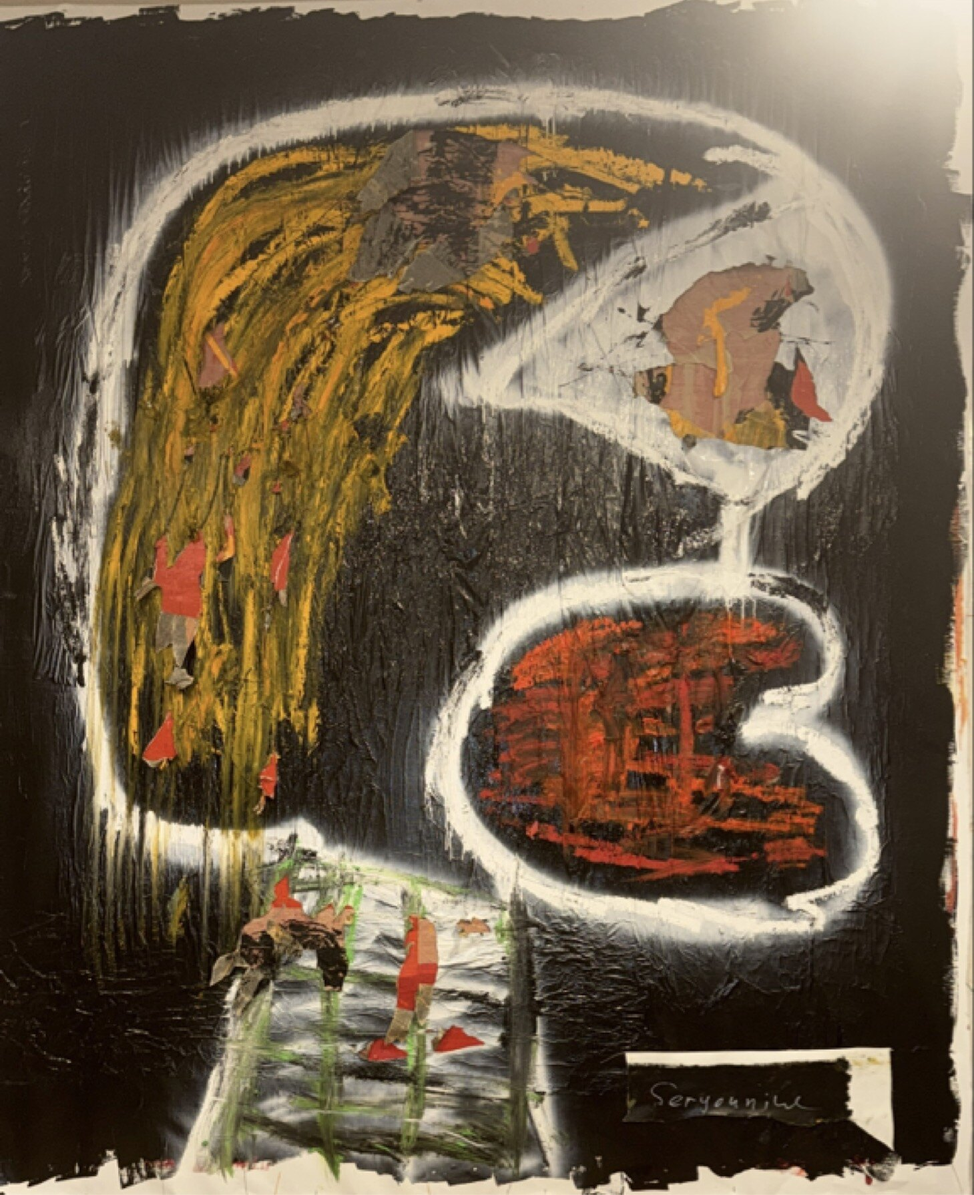
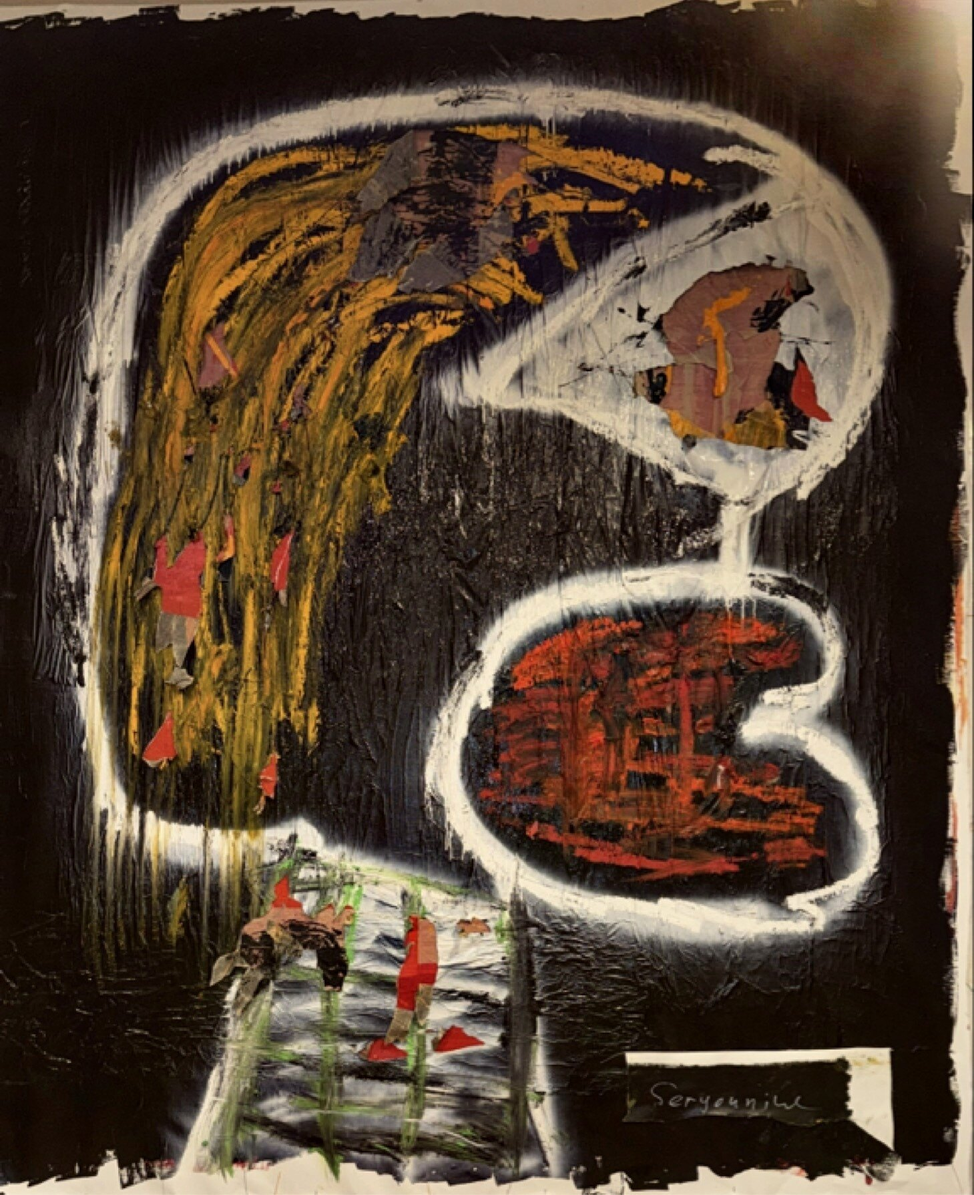
Align typography with Mind Mechanics catalogue; remove glare from MM58 photo
Claude-Session: https://claude.ai/code/session_01FYrPgsF63UgjyRSbfZ3Y21

diff --git a/style.css b/style.css
@@ -6,7 +6,8 @@
   --mid:#5E5B55;
   --dim:#8C8880;
   --rule:#D9D7D1;
-  --ochre:#9C7A32;
+  --ochre:#1C1B18;
+  --serif:'Newsreader','Palatino Linotype','Palatino','Book Antiqua',Georgia,serif;
   --pad:clamp(20px,5vw,72px);
 }
 *{box-sizing:border-box;margin:0;padding:0}
@@ -24,7 +25,7 @@ a{color:inherit;text-decoration:none}
   display:flex;align-items:baseline;justify-content:space-between;gap:24px;
   padding:17px var(--pad);border-bottom:1px solid var(--rule);
 }
-.nav__name{font-weight:700;font-size:clamp(12px,1.4vw,14px);letter-spacing:.24em;text-transform:uppercase}
+.nav__name{font-weight:500;font-size:10.5px;letter-spacing:.24em;text-transform:uppercase}
 .nav__links{display:flex;gap:clamp(14px,2.4vw,30px)}
 .nav__link{
   font-size:10.5px;letter-spacing:.2em;text-transform:uppercase;
@@ -41,16 +42,16 @@ a{color:inherit;text-decoration:none}
   border-bottom:1px solid var(--rule);
 }
 .mast__series{
-  font-size:clamp(30px,6.4vw,62px);font-weight:700;
-  letter-spacing:-.032em;line-height:1;text-transform:uppercase;
+  font-family:var(--serif);font-style:italic;font-weight:400;
+  font-size:clamp(38px,6vw,66px);letter-spacing:-.01em;line-height:1.05;
 }
 .mast__series::after{
-  content:"";display:block;width:104px;height:1.5px;
-  background:var(--ochre);margin-top:16px;
+  content:"";display:block;width:104px;height:1px;
+  background:var(--ink);margin-top:18px;
 }
 .mast__years{
-  display:block;margin-top:14px;font-size:11px;font-weight:500;
-  letter-spacing:.26em;color:var(--ochre);
+  display:block;margin-top:14px;font-family:'Archivo',system-ui,sans-serif;font-style:normal;
+  font-size:10.5px;font-weight:400;letter-spacing:.24em;color:var(--dim);
 }
 .mast__facts{
   margin-top:24px;display:flex;flex-wrap:wrap;gap:6px 22px;
@@ -58,10 +59,10 @@ a{color:inherit;text-decoration:none}
 }
 .counter{text-align:right;line-height:1}
 .counter__n{
-  font-size:clamp(40px,7.5vw,80px);font-weight:700;letter-spacing:-.05em;
-  font-variant-numeric:tabular-nums;display:block;
+  font-family:var(--serif);font-weight:400;font-size:clamp(26px,3vw,34px);
+  letter-spacing:0;font-variant-numeric:oldstyle-nums;display:inline;
 }
-.counter__of{font-size:clamp(12px,1.6vw,15px);color:var(--dim);font-variant-numeric:tabular-nums}
+.counter__of{font-family:var(--serif);font-size:clamp(15px,1.6vw,18px);color:var(--dim);margin-left:6px}
 .counter__label{
   display:block;margin-top:12px;max-width:17ch;margin-left:auto;
   font-size:10px;letter-spacing:.15em;text-transform:uppercase;
@@ -83,12 +84,11 @@ a{color:inherit;text-decoration:none}
 .work.reveal.is-in{opacity:1;transform:none}
 .work__meta{display:flex;flex-direction:column;position:sticky;top:88px;padding-top:4px}
 .work__num{
-  font-size:clamp(26px,3.6vw,40px);font-weight:700;letter-spacing:-.04em;
-  line-height:.9;font-variant-numeric:tabular-nums;
-  padding-bottom:14px;margin-bottom:14px;border-bottom:1px solid var(--rule);
+  font-size:10px;letter-spacing:.2em;text-transform:uppercase;color:var(--dim);
+  padding-bottom:12px;margin-bottom:14px;border-bottom:1px solid var(--rule);
 }
-.work__title{font-size:12.5px;font-weight:500;margin-bottom:7px}
-.work__dim{font-size:12px;color:var(--mid);line-height:1.6}
+.work__title{font-family:var(--serif);font-style:italic;font-size:17px;line-height:1.3;margin-bottom:8px}
+.work__dim{font-family:var(--serif);font-size:14px;color:var(--mid);line-height:1.5}
 .work__note{
   margin-top:14px;padding-top:12px;border-top:1px solid var(--rule);
   font-size:10px;letter-spacing:.15em;text-transform:uppercase;color:var(--dim);line-height:1.8;
@@ -107,14 +107,14 @@ a{color:inherit;text-decoration:none}
 
 /* ---------- prose pages ---------- */
 .sheet{max-width:62ch;padding:clamp(44px,8vw,104px) var(--pad) clamp(64px,10vw,140px)}
-.eyebrow{font-size:10.5px;letter-spacing:.24em;text-transform:uppercase;color:var(--ochre);margin-bottom:20px}
+.eyebrow{font-size:10px;letter-spacing:.24em;text-transform:uppercase;color:var(--dim);margin-bottom:20px}
 .sheet h1{
-  font-size:clamp(26px,4vw,40px);font-weight:700;
-  letter-spacing:-.03em;line-height:1.06;margin-bottom:18px;
+  font-family:var(--serif);font-style:italic;font-weight:400;
+  font-size:clamp(32px,4.4vw,46px);letter-spacing:-.01em;line-height:1.1;margin-bottom:18px;
 }
 .sheet h1::after{
-  content:"";display:block;width:104px;height:1.5px;
-  background:var(--ochre);margin-top:16px;margin-bottom:32px;
+  content:"";display:block;width:104px;height:1px;
+  background:var(--ink);margin-top:18px;margin-bottom:32px;
 }
 .portrait{margin:0 0 clamp(34px,5vw,52px)}
 .portrait__ph{
@@ -128,7 +128,7 @@ a{color:inherit;text-decoration:none}
   text-transform:uppercase;color:var(--dim);
 }
 .prose p{
-  font-family:'Newsreader',Georgia,serif;font-weight:400;
+  font-family:var(--serif);font-weight:400;
   font-size:clamp(17px,1.8vw,19.5px);line-height:1.68;
   color:#33312C;margin-bottom:1.15em;
 }
@@ -136,7 +136,7 @@ a{color:inherit;text-decoration:none}
   font-size:clamp(20px,2.5vw,26px);line-height:1.42;color:var(--ink);
   letter-spacing:-.008em;margin-bottom:1.35em;
 }
-.prose strong{font-weight:400;color:var(--ink)}
+.prose strong{font-weight:400;font-style:italic;color:var(--ink)}
 .divider{border:0;border-top:1px solid var(--rule);margin:clamp(40px,6vw,68px) 0 clamp(26px,4vw,40px)}
 .dl{
   display:inline-flex;gap:10px;align-items:center;font-size:10.5px;
@@ -149,7 +149,7 @@ a{color:inherit;text-decoration:none}
 /* ---------- contact ---------- */
 .contact__grid{display:grid;gap:clamp(24px,3.6vw,40px);margin-top:10px}
 .cblock__k{font-size:10.5px;letter-spacing:.2em;text-transform:uppercase;color:var(--dim);margin-bottom:9px}
-.cblock__v{font-size:clamp(17px,2.1vw,21px);font-weight:500;letter-spacing:-.01em}
+.cblock__v{font-family:var(--serif);font-size:clamp(18px,2.1vw,22px);font-weight:400}
 .cblock__v a{border-bottom:1px solid var(--rule);padding-bottom:3px}
 .cblock__v a:hover{border-bottom-color:var(--ink)}
 .cblock__note{font-size:12.5px;color:var(--mid);margin-top:7px}
@@ -169,7 +169,6 @@ a{color:inherit;text-decoration:none}
   .counter__label{margin-left:0}
   .work{grid-template-columns:1fr}
   .work__meta{position:static}
-  .work__num{font-size:30px}
 }
 @media (prefers-reduced-motion:reduce){
   *{transition:none!important}

diff --git a/index.html b/index.html
@@ -11,7 +11,7 @@
 <meta property="og:type" content="website">
 <link rel="preconnect" href="https://fonts.googleapis.com">
 <link rel="preconnect" href="https://fonts.gstatic.com" crossorigin>
-<link href="https://fonts.googleapis.com/css2?family=Archivo:wght@400;500;600;700&family=Newsreader:opsz,wght@6..72,400&display=swap" rel="stylesheet">
+<link href="https://fonts.googleapis.com/css2?family=Archivo:wght@400;500;600;700&family=Newsreader:ital,opsz,wght@0,6..72,400;1,6..72,400&display=swap" rel="stylesheet">
 <link rel="stylesheet" href="style.css">
 </head>
 <body>
@@ -61,7 +61,7 @@
           </div>
         </div>
         <figcaption class="work__meta">
-          <span class="work__num">58</span>
+          <span class="work__num">No. 58</span>
           <span class="work__title">Mind Mechanics No. 58</span>
           <span class="work__dim">2026</span>
           <span class="work__dim">Oil stick, oil pastel, spray paint and collage on acrylic ground on canvas</span>
@@ -74,7 +74,7 @@
           <img src="images/mm-50.jpg" alt="Mind Mechanics No. 50" loading="lazy" width="1600">
         </div>
         <figcaption class="work__meta">
-          <span class="work__num">50</span>
+          <span class="work__num">No. 50</span>
           <span class="work__title">Mind Mechanics No. 50</span>
           <span class="work__dim">2026</span>
           <span class="work__dim">Oil stick, oil pastel, acrylic ground on canvas</span>
@@ -86,7 +86,7 @@
           <img src="images/mm-30.jpg" alt="Mind Mechanics No. 30" loading="lazy" width="1600">
         </div>
         <figcaption class="work__meta">
-          <span class="work__num">30</span>
+          <span class="work__num">No. 30</span>
           <span class="work__title">Mind Mechanics No. 30</span>
           <span class="work__dim">2026</span>
           <span class="work__dim">Oil stick, oil pastel, acrylic ground on canvas</span>
@@ -98,7 +98,7 @@
           <img src="images/mm-27.jpg" alt="Mind Mechanics No. 27" loading="lazy" width="1600">
         </div>
         <figcaption class="work__meta">
-          <span class="work__num">27</span>
+          <span class="work__num">No. 27</span>
           <span class="work__title">Mind Mechanics No. 27</span>
           <span class="work__dim">2026</span>
           <span class="work__dim">Oil stick, oil pastel, acrylic ground on canvas</span>
@@ -110,7 +110,7 @@
           <img src="images/mm-22.jpg" alt="Mind Mechanics No. 22" loading="lazy" width="1600">
         </div>
         <figcaption class="work__meta">
-          <span class="work__num">22</span>
+          <span class="work__num">No. 22</span>
           <span class="work__title">Mind Mechanics No. 22</span>
           <span class="work__dim">2026</span>
           <span class="work__dim">Oil stick, oil pastel, acrylic ground on canvas</span>
@@ -122,7 +122,7 @@
           <img src="images/mm-13.jpg" alt="Mind Mechanics No. 13" loading="lazy" width="1600">
         </div>
         <figcaption class="work__meta">
-          <span class="work__num">13</span>
+          <span class="work__num">No. 13</span>
           <span class="work__title">Mind Mechanics No. 13</span>
           <span class="work__dim">2025</span>
           <span class="work__dim">Oil stick, oil pastel, acrylic ground on canvas</span>
@@ -134,7 +134,7 @@
           <img src="images/mm-02.jpg" alt="Mind Mechanics No. 2" loading="lazy" width="1600">
         </div>
         <figcaption class="work__meta">
-          <span class="work__num">02</span>
+          <span class="work__num">No. 2</span>
           <span class="work__title">Mind Mechanics No. 2</span>
           <span class="work__dim">2025</span>
           <span class="work__dim">Oil stick, oil pastel, acrylic ground on canvas</span>

diff --git a/about.html b/about.html
@@ -11,7 +11,7 @@
 <meta property="og:type" content="website">
 <link rel="preconnect" href="https://fonts.googleapis.com">
 <link rel="preconnect" href="https://fonts.gstatic.com" crossorigin>
-<link href="https://fonts.googleapis.com/css2?family=Archivo:wght@400;500;600;700&family=Newsreader:opsz,wght@6..72,400&display=swap" rel="stylesheet">
+<link href="https://fonts.googleapis.com/css2?family=Archivo:wght@400;500;600;700&family=Newsreader:ital,opsz,wght@0,6..72,400;1,6..72,400&display=swap" rel="stylesheet">
 <link rel="stylesheet" href="style.css">
 </head>
 <body>

diff --git a/contact.html b/contact.html
@@ -11,7 +11,7 @@
 <meta property="og:type" content="website">
 <link rel="preconnect" href="https://fonts.googleapis.com">
 <link rel="preconnect" href="https://fonts.gstatic.com" crossorigin>
-<link href="https://fonts.googleapis.com/css2?family=Archivo:wght@400;500;600;700&family=Newsreader:opsz,wght@6..72,400&display=swap" rel="stylesheet">
+<link href="https://fonts.googleapis.com/css2?family=Archivo:wght@400;500;600;700&family=Newsreader:ital,opsz,wght@0,6..72,400;1,6..72,400&display=swap" rel="stylesheet">
 <link rel="stylesheet" href="style.css">
 </head>
 <body>
